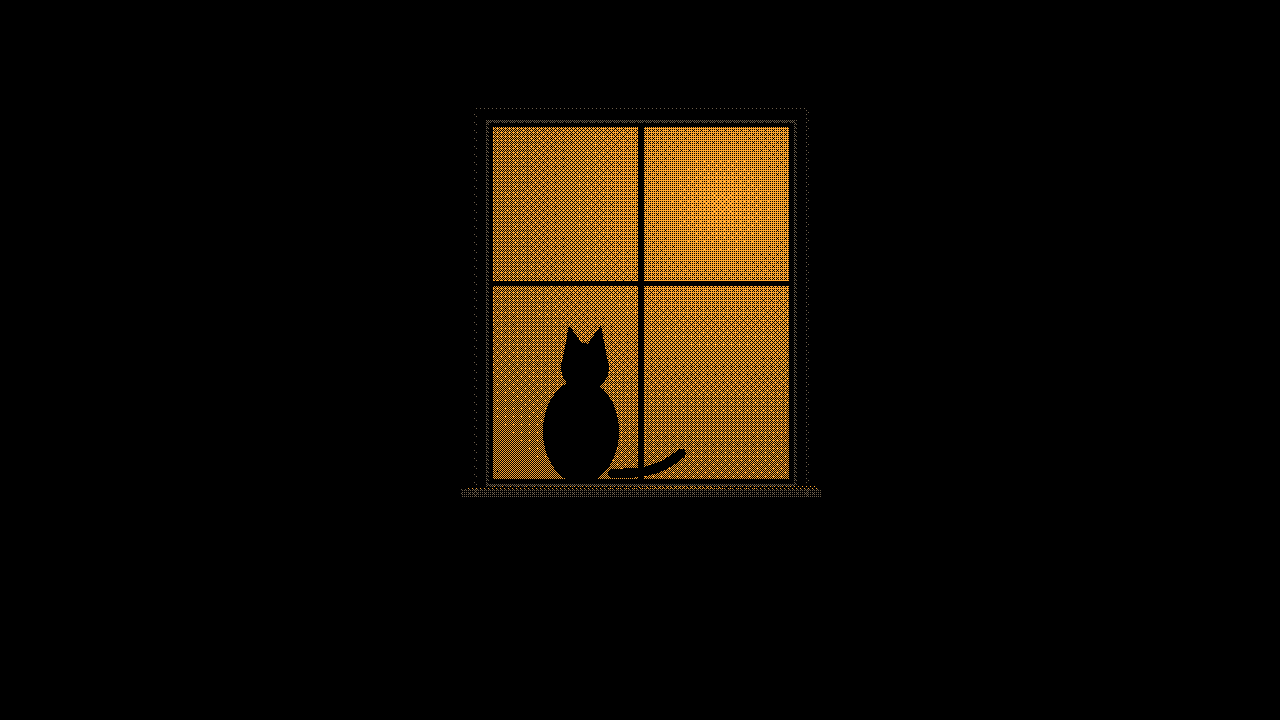
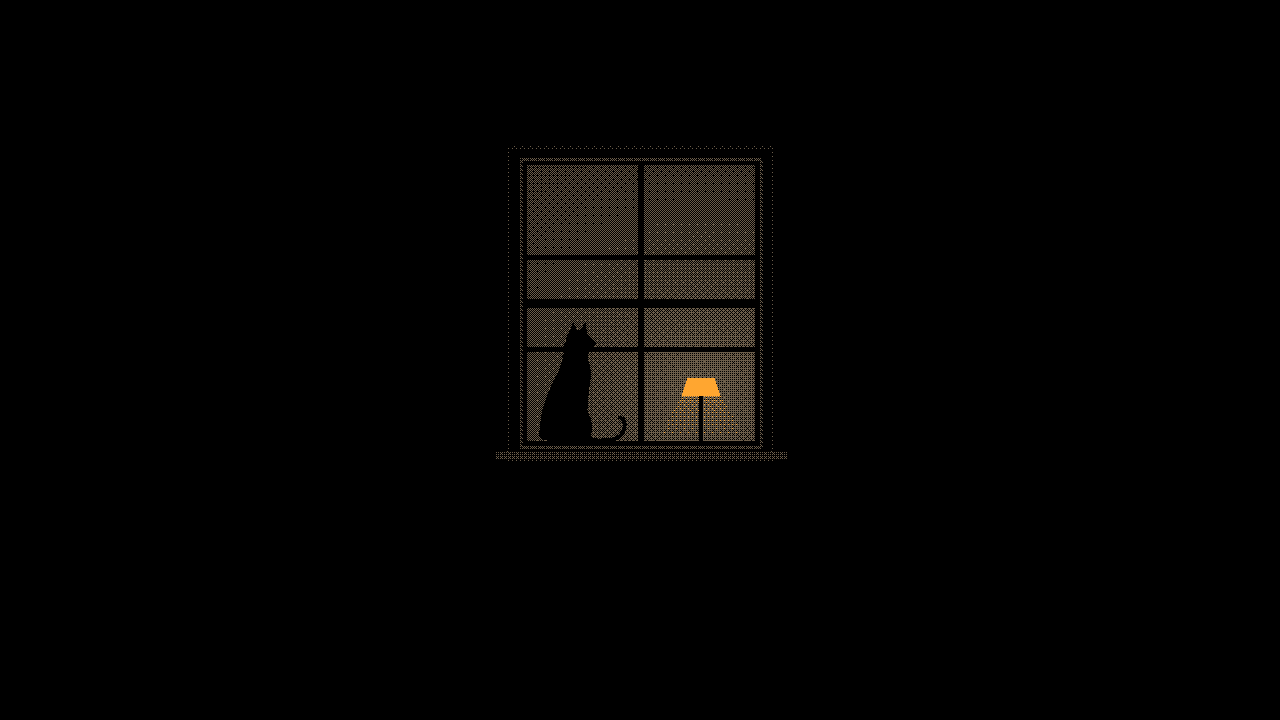
Fan, cat window

Changed region(s): [[0.375, 0.1528, 0.625, 0.7028]]

diff --git a/README.md b/README.md
@@ -165,7 +165,7 @@ Mostly black. Knoxville at night: downtown and the Sunsphere across the river, a
 ![Drum lamp: Base dark against its light](screenshots/walls/3200-drumlamp.png)
 3200 · Drum lamp
 
-![Cat in the window: On the sill, against the glow](screenshots/walls/3210-catwindow.png)
+![Cat in the window: In profile, a lamp in the room](screenshots/walls/3210-catwindow.png)
 3210 · Cat in the window
 <!-- /walls:minimal -->
 </details>
